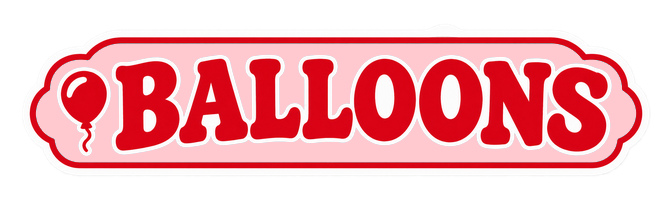
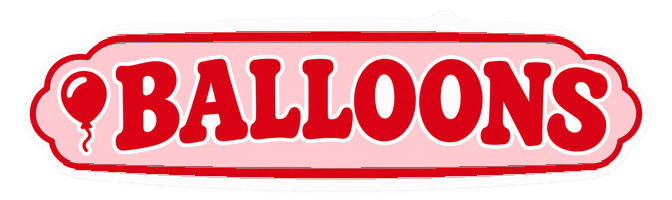
Match parade labels and buttons and animate the rocking horse

Changed region(s): [[0.0938, 0.81, 0.9062, 0.9], [0.1562, 0.15, 0.8438, 0.24]]

diff --git a/thanksgiving-parade/index.html b/thanksgiving-parade/index.html
@@ -6,8 +6,8 @@
 <meta name="description" content="A colorful Thanksgiving parade creation game for elementary classrooms.">
 <title>Ms. Kaple’s Thanksgiving Day Parade Maker</title>
 <link rel="icon" href="assets/ui/kaple-2026-raster/brand-20261117/parade-logo.png" type="image/png">
-<link rel="stylesheet" href="studio.css?rev=individual-jpeg&amp;v=20261119-slides-1">
-<link rel="stylesheet" href="skyline.css?v=20261120-layered">
+<link rel="stylesheet" href="studio.css?rev=matching-controls&amp;v=20261119-slides-1">
+<link rel="stylesheet" href="skyline.css?v=20261120-horse">
 <link rel="stylesheet" href="cinema.css?v=20261119-slides-1">
 </head>
 <body class="parade-studio">
@@ -28,7 +28,7 @@
     <img class="skyline-layer skyline-horse-float" src="assets/ui/skyline/horse-float.png" alt="">
   </div>
   <nav class="step-list" aria-label="Parade categories">
-    <button type="button" class="step selected" data-step="1" data-tab="balloons" aria-pressed="true" aria-label="Choose balloons"><img src="assets/ui/individual-jpeg/tab-balloons.jpg" alt=""></button>
+    <button type="button" class="step selected" data-step="1" data-tab="balloons" aria-pressed="true" aria-label="Choose balloons"><img src="assets/ui/individual-jpeg/tab-balloons.jpg?v=2" alt=""></button>
     <button type="button" class="step" data-step="2" data-tab="floats" aria-pressed="false" aria-label="Choose floats"><img src="assets/ui/individual-jpeg/tab-floats.jpg" alt=""></button>
     <button type="button" class="step" data-step="3" data-tab="bands" aria-pressed="false" aria-label="Marching Bands and Music"><img src="assets/ui/individual-jpeg/tab-bands.jpg" alt=""></button>
     <button type="button" class="step" data-step="4" data-tab="decorate" aria-pressed="false" aria-label="Parade scenes"><img src="assets/ui/individual-jpeg/tab-scenes.jpg" alt=""></button>
@@ -37,7 +37,7 @@
     <h1 class="sr-only">Ms. Kaple’s Thanksgiving Day Parade Maker</h1>
     <img src="assets/ui/kaple-2026-raster/brand-20261117/parade-logo.png" class="game-brand-image" alt="">
     <div class="top-actions">
-      <button type="button" class="kaple-util picture-button" id="studioFullscreenBtn" aria-label="Full screen"><img src="assets/ui/slide-reference/full-screen.png" alt=""></button>
+      <button type="button" class="kaple-util picture-button" id="studioFullscreenBtn" aria-label="Full screen"><img src="assets/ui/individual-jpeg/utility-full-screen.png" alt=""></button>
       <details class="studio-tools"><summary>Parade tools</summary>
        <div class="studio-tools-menu">
         <button type="button" id="saveBtn">Save Parade</button>
@@ -47,7 +47,7 @@
         <button type="button" id="changeStudentBtn">Change Student</button>
        </div>
       </details>
-      <button type="button" class="kaple-util picture-button" id="homeBtn" aria-label="Home"><img src="assets/ui/slide-reference/home.png" alt=""></button>
+      <button type="button" class="kaple-util picture-button" id="homeBtn" aria-label="Home"><img src="assets/ui/individual-jpeg/utility-home.png" alt=""></button>
     </div>
   </div>
 </header>
@@ -68,7 +68,7 @@
    <section class="lineup-panel" id="paradeLineupPanel" aria-label="Parade lineup">
      <div class="section-heading">
       <button type="button" class="arrow-btn" data-scroll-gallery="lineup" data-direction="-1" aria-label="Previous lineup slots">Previous</button>
-      <h2 class="panel-title"><img src="assets/ui/individual-jpeg/heading-lineup.jpg" alt="My Parade Line-up"></h2>
+      <h2 class="panel-title"><img src="assets/ui/individual-jpeg/heading-lineup.jpg?v=2" alt="My Parade Line-up"></h2>
       <button type="button" class="arrow-btn" data-scroll-gallery="lineup" data-direction="1" aria-label="Next lineup slots">Next</button>
      </div>
      <div class="lineup-status"><span id="lineupCount"></span><span class="gallery-page-status" id="lineupPageStatus" aria-live="polite"></span></div>
@@ -181,8 +181,8 @@
  <div class="cinema-reference-stage">
   <img class="cinema-title-art" src="assets/ui/slide-reference/watch.png" alt="Watch my parade">
   <div class="cinema-utilities">
-   <button type="button" id="fullscreenBtn" aria-label="Full screen"><img src="assets/ui/slide-reference/full-screen.png" alt=""><span class="cinema-sr">Full Screen</span></button>
-   <button type="button" id="closeMovieBtn" aria-label="Back to parade builder"><img src="assets/ui/slide-reference/home.png" alt=""><span class="cinema-sr">Back to Studio</span></button>
+   <button type="button" id="fullscreenBtn" aria-label="Full screen"><img src="assets/ui/individual-jpeg/utility-full-screen.png" alt=""><span class="cinema-sr">Full Screen</span></button>
+   <button type="button" id="closeMovieBtn" aria-label="Back to parade builder"><img src="assets/ui/individual-jpeg/utility-home.png" alt=""><span class="cinema-sr">Back to Studio</span></button>
   </div>
   <div class="movie-scene" id="movieScene">
    <div class="movie-world" id="movieWorld"><img class="movie-background" id="movieBackground" alt=""><canvas id="movieStage" aria-label="Your ordered parade moving along the chosen street"></canvas></div>

diff --git a/thanksgiving-parade/studio.css b/thanksgiving-parade/studio.css
@@ -23,7 +23,7 @@ picture,img{display:block;max-width:100%}
 .step:nth-child(3){grid-column:4}
 .step img{width:auto;height:auto;max-width:100%;max-height:100%;object-fit:contain}
 .step.selected img{content:var(--active-tab)}
-.step[data-tab="balloons"]{--active-tab:url('assets/ui/individual-jpeg/tab-balloons-active.jpg')}
+.step[data-tab="balloons"]{--active-tab:url('assets/ui/individual-jpeg/tab-balloons-active.jpg?v=2')}
 .step[data-tab="floats"]{--active-tab:url('assets/ui/individual-jpeg/tab-floats-active.jpg')}
 .step[data-tab="bands"]{--active-tab:url('assets/ui/individual-jpeg/tab-bands-active.jpg')}
 .step[data-tab="decorate"]{--active-tab:url('assets/ui/individual-jpeg/tab-scenes-active.jpg')}
@@ -51,7 +51,7 @@ picture,img{display:block;max-width:100%}
 .panel-title{display:grid;place-items:center;min-height:calc(64 * var(--u));padding:0 calc(6 * var(--u));border:calc(5 * var(--u)) solid white;border-radius:calc(13 * var(--u));background:#d21331;color:white;text-transform:uppercase;text-align:center;white-space:nowrap;}
 .section-heading .panel-title{min-height:calc(56 * var(--u));background:#a7e8f6}
 .panel-title img{width:100%;height:calc(52 * var(--u));object-fit:fill}
-.section-heading .panel-title img{height:calc(44 * var(--u))}
+.section-heading .panel-title img{height:calc(44 * var(--u));object-fit:contain}
 .native-control svg{width:100%;height:100%;display:block}
 .stage,.stage-scene,.stage-characters{position:absolute;inset:0;overflow:hidden}
 .stage{inset:calc(5 * var(--u));background:#c9eef8;border-radius:calc(30 * var(--u))}

diff --git a/thanksgiving-parade/skyline.css b/thanksgiving-parade/skyline.css
@@ -31,7 +31,11 @@
 .skyline.skyline--layers .skyline-teddy {--x:70.62;--y:3.6;--w:6.94;--tilt:-23.95deg;--lift:-3px;--drift:1.3px;--period:5.8s;--phase:-1.7s;}
 .skyline.skyline--layers .skyline-star {--x:9.30;--y:21.20;--w:4.22;--lift:-2.8px;--drift:-1.2px;--period:7.2s;--phase:-1.4s;}
 .skyline.skyline--layers .skyline-car {--x:85.23;--y:42.7;--w:5.67;}
-.skyline.skyline--layers .skyline-horse-float {--x:1.88;--y:30.89;--w:5.07;--tilt:-7.845deg;}
+.skyline.skyline--layers .skyline-horse-float {
+  --x:1.88;--y:30.89;--w:5.07;--tilt:-7.845deg;
+  transform-origin:50% 88%;
+  animation:skyline-horse-rock 2.8s ease-in-out infinite;
+}
 .skyline.skyline--layers .skyline-balloon {
   animation:skyline-balloon-drift var(--period) var(--phase) ease-in-out infinite;
 }
@@ -49,7 +53,12 @@
   57% {transform:translateY(-1.05px) rotate(.45deg);}
   76% {transform:translateY(-.3px) rotate(-.15deg);}
 }
+@keyframes skyline-horse-rock {
+  0%,100% {transform:translateX(.8px) rotate(calc(var(--tilt) + 6deg));}
+  50% {transform:translateX(-.8px) rotate(calc(var(--tilt) - 6deg));}
+}
 @media (prefers-reduced-motion:reduce) {
   .skyline.skyline--layers .skyline-balloon,
-  .skyline.skyline--layers .skyline-car {animation:none;}
+  .skyline.skyline--layers .skyline-car,
+  .skyline.skyline--layers .skyline-horse-float {animation:none;}
 }
